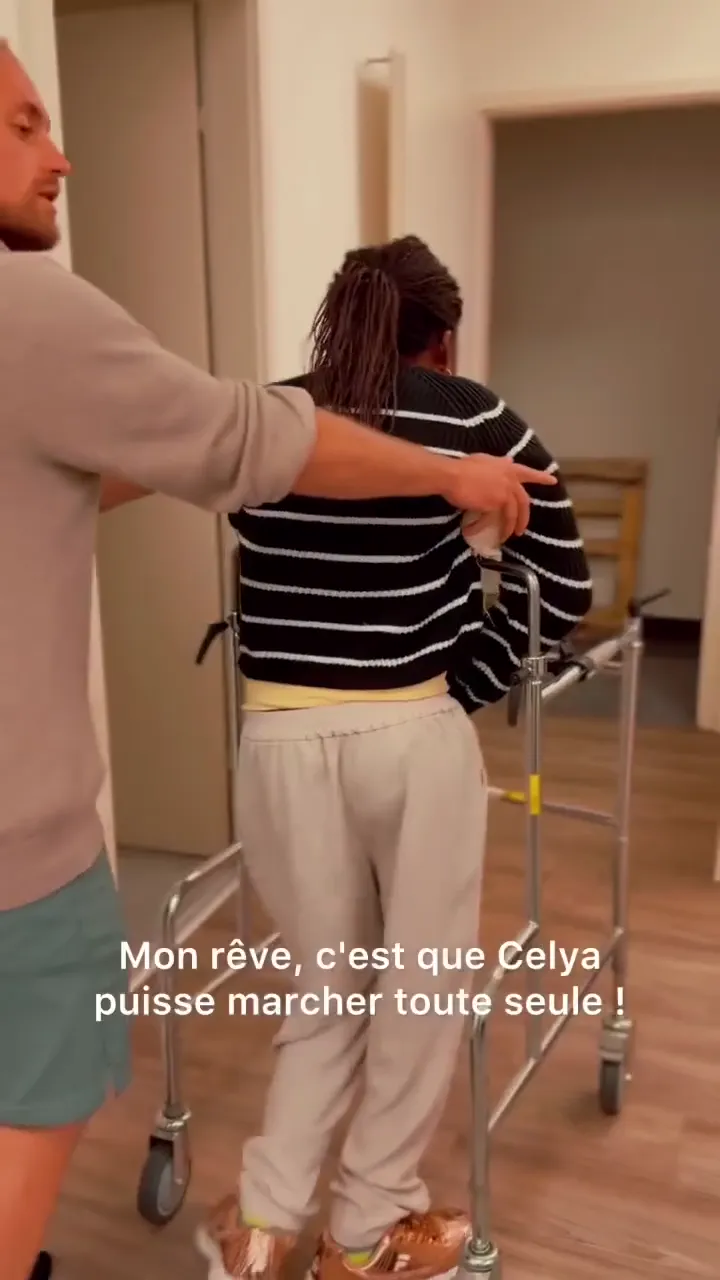
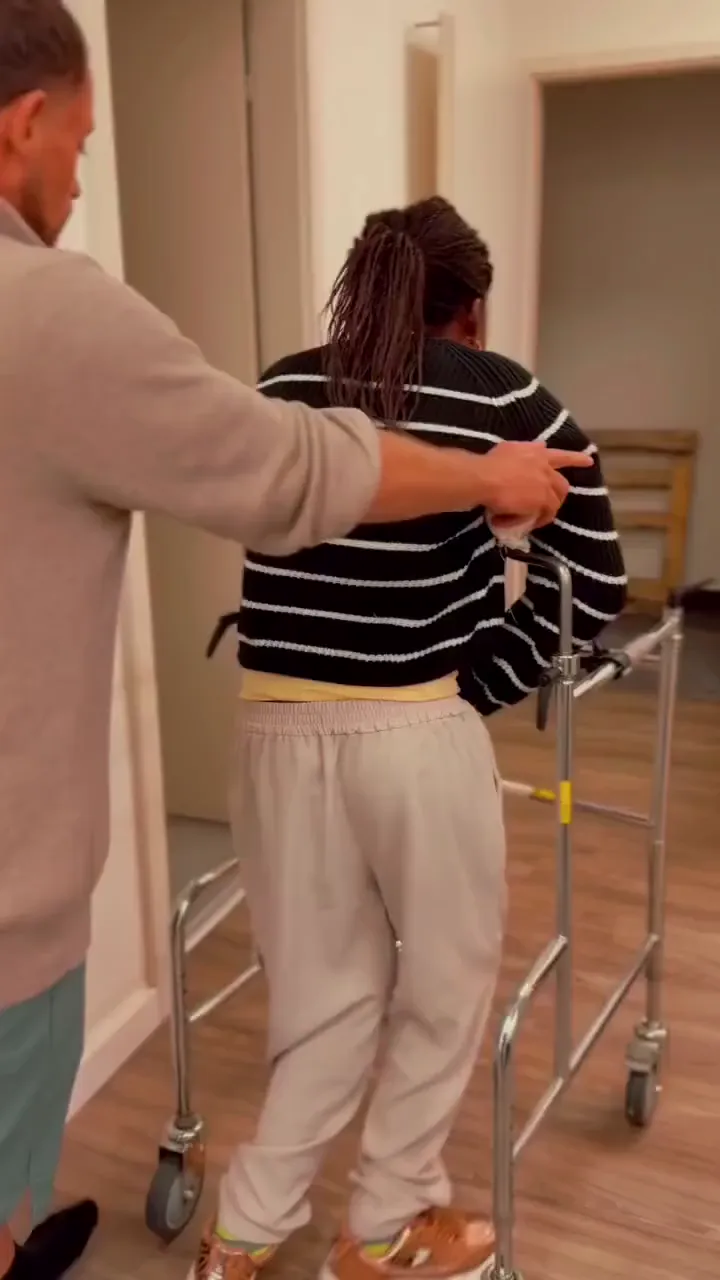
video perf

diff --git a/script.js b/script.js
@@ -870,11 +870,46 @@ function updateSpecialtyCarousel(scrollTrack) {
 
 // Slide videos: only the active one plays, and only while the carousel is on
 // screen, the menu is closed and the visitor hasn't asked for reduced motion.
-// Every other video stays paused on its poster (preload="none", so nothing is
-// downloaded until a video is first played).
+// Every other video stays paused on its poster (the video's first frame).
 let specialtyCarouselOnScreen = false;
+// True from about one screen before the carousel scrolls into view.
+let specialtyCarouselNear = false;
+
+// Warm-up: once the carousel is near, the active video and its two neighbours
+// start buffering so they play straight away instead of stalling on swipe.
+// preload="auto" covers most browsers; iOS Safari mostly ignores it, so a
+// muted play() + immediate pause() is what actually gets it buffering there.
+// Skipped when the visitor has turned on Data Saver.
+function primeSpecialtyVideos() {
+  if (!specialtyCarouselNear || !specialtyMobileQuery.matches || navigator.connection?.saveData) return;
+  [activeSpecialty - 1, activeSpecialty, activeSpecialty + 1].forEach((index) => {
+    const video = specialtySlides[index]?.querySelector("video");
+    if (!video || video.dataset.primed) return;
+    video.dataset.primed = "true";
+    video.preload = "auto";
+    if (reduceMotionQuery.matches) {
+      video.load();
+      return;
+    }
+    // Left to settle on its own: pausing before play() resolves would abort it.
+    video.dataset.priming = "true";
+    video.play().then(() => {
+      if (!isSpecialtyVideoLive(index)) video.pause();
+    }).catch(() => {}).finally(() => {
+      delete video.dataset.priming;
+    });
+  });
+}
+
+function isSpecialtyVideoLive(index) {
+  return index === activeSpecialty
+    && specialtyCarouselOnScreen
+    && specialtyMobileQuery.matches
+    && !document.body.classList.contains("menu-open");
+}
 
 function syncSpecialtyVideos() {
+  primeSpecialtyVideos();
   const visible = specialtyCarouselOnScreen
     && specialtyMobileQuery.matches
     && !document.body.classList.contains("menu-open");
@@ -888,7 +923,7 @@ function syncSpecialtyVideos() {
     } else {
       // Leaving a video always mutes it again, so coming back never surprises
       // anyone with sound.
-      video.pause();
+      if (!video.dataset.priming) video.pause();
       video.muted = true;
     }
   });
@@ -1008,6 +1043,11 @@ if (specialtyTrack) {
       specialtyCarouselOnScreen = entry.isIntersecting;
       syncSpecialtyVideos();
     }, { threshold: 0.25 }).observe(specialtyTrack);
+    new IntersectionObserver(([entry]) => {
+      if (!entry.isIntersecting) return;
+      specialtyCarouselNear = true;
+      primeSpecialtyVideos();
+    }, { rootMargin: "0px 0px 100% 0px" }).observe(specialtyTrack);
   }
   reduceMotionQuery.addEventListener("change", syncSpecialtyVideos);
 
